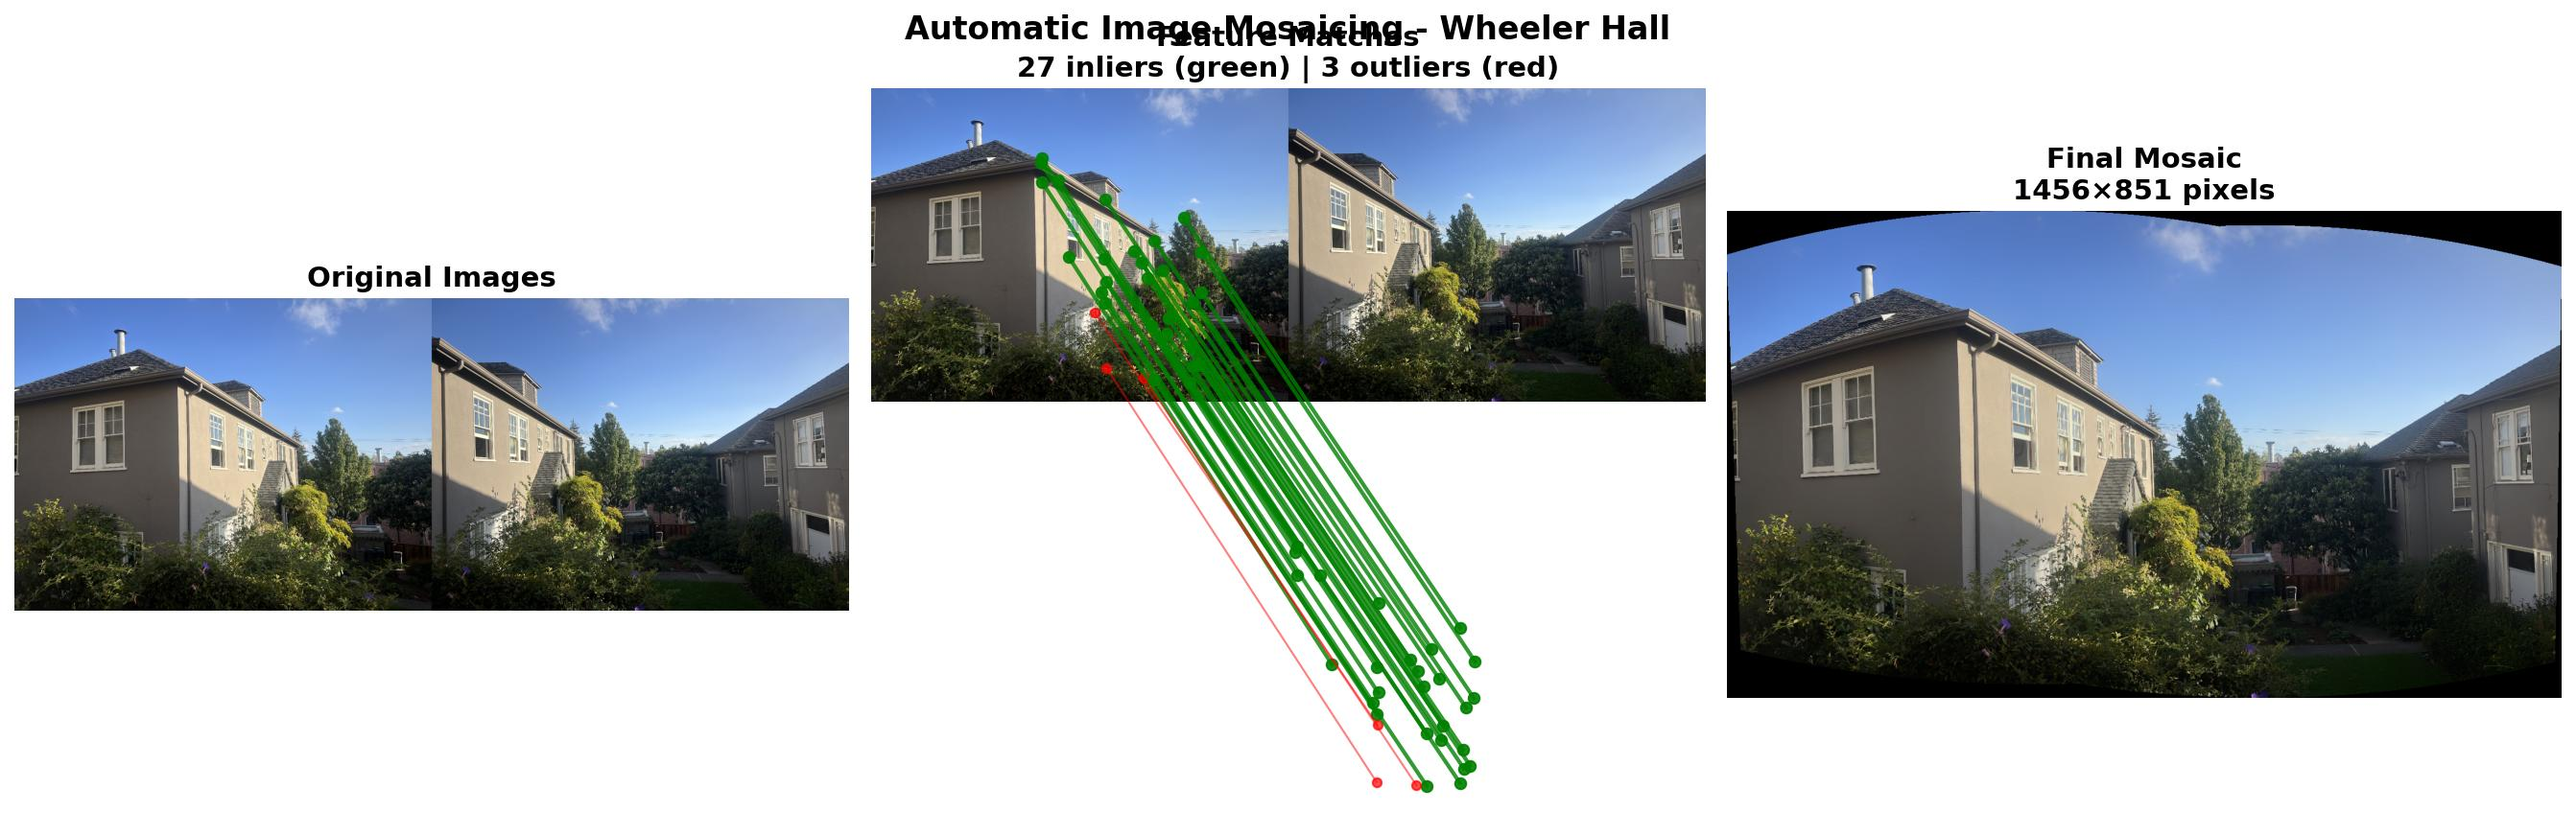
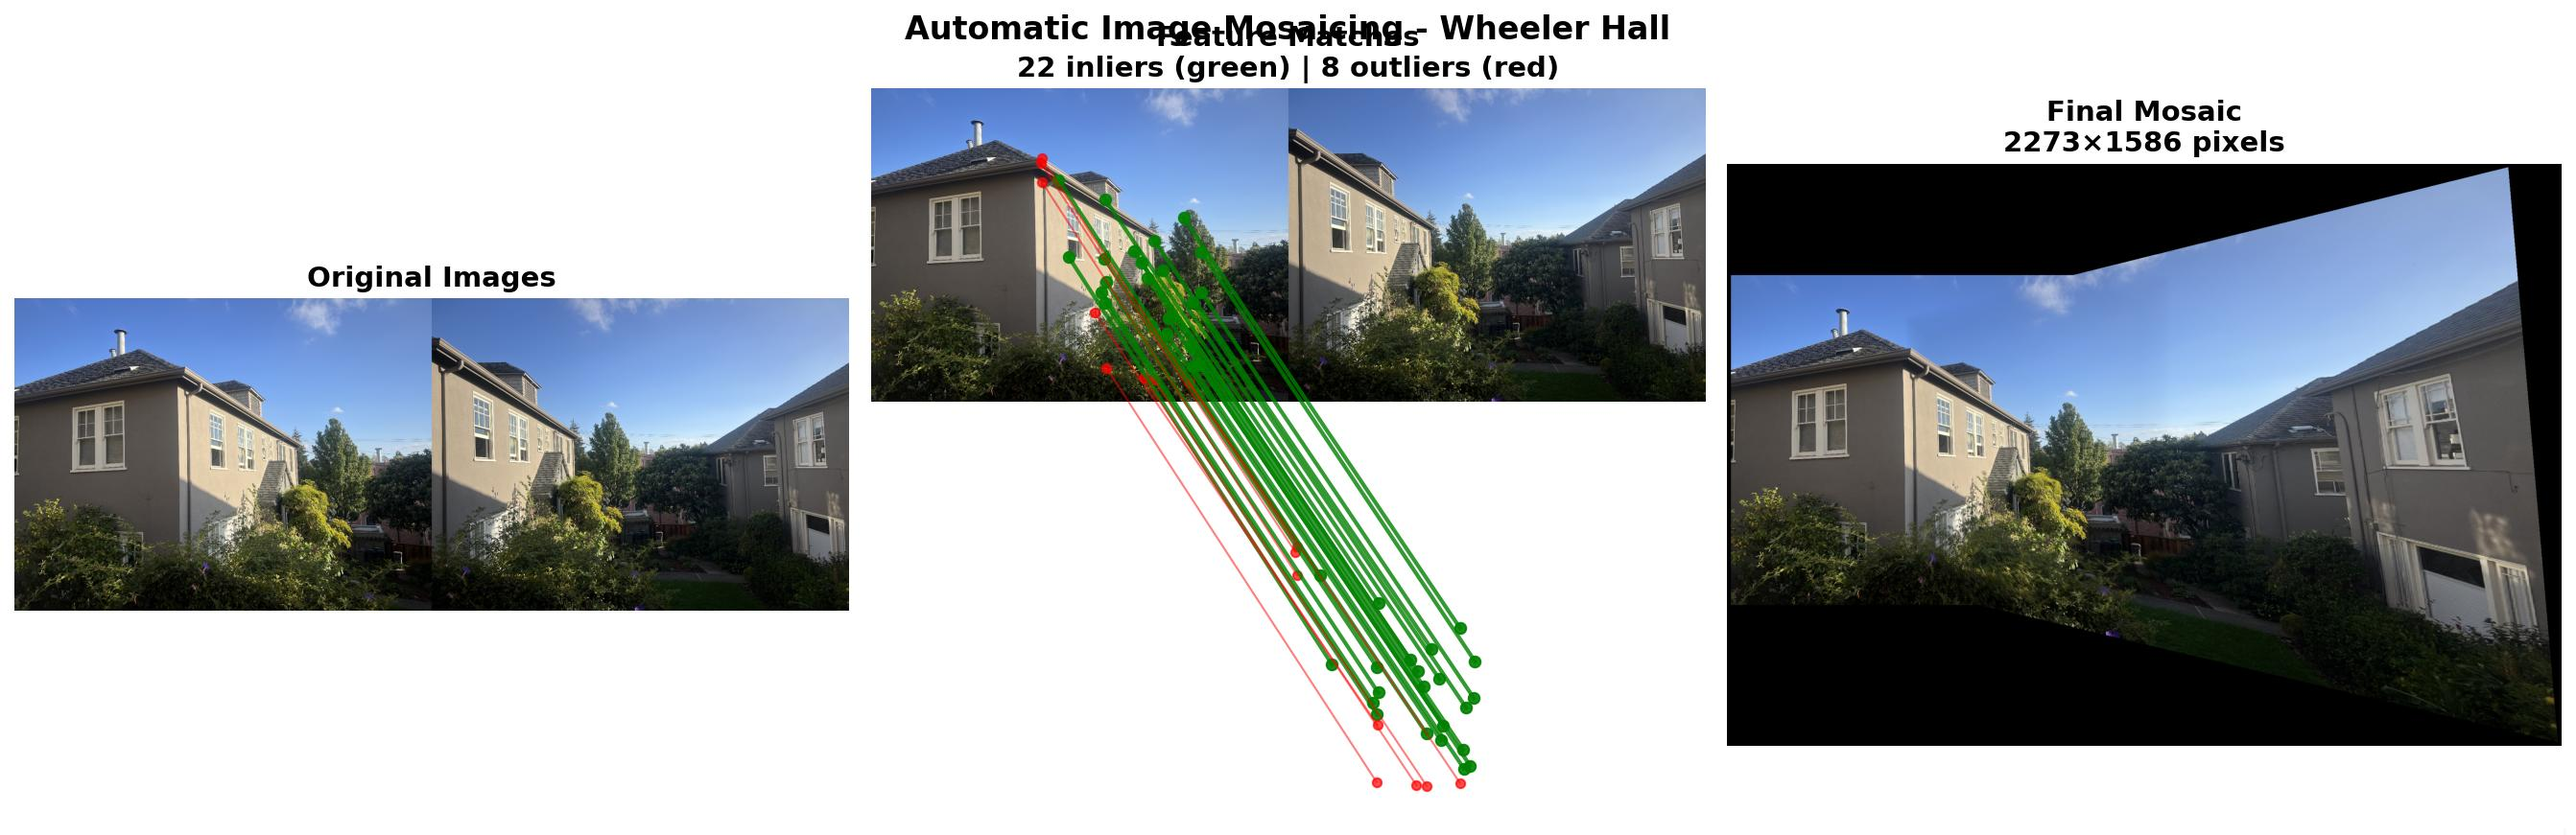
Update automatic mosaics with correct RANSAC results
- Regenerated all automatic mosaics using proper RANSAC + manual stitching approach
- Updated inlier counts: House (22), Wheeler (13), Sproul (17)
- Corrected inlier ratios: House (73.3%), Wheeler (86.7%), Sproul (60.7%)
- Updated all HTML references to reflect actual RANSAC performance
- Ensured sharp rectangular edges using manual stitching from Part A

diff --git a/Proj_3/web/index.html b/Proj_3/web/index.html
@@ -1163,17 +1163,17 @@ This ensures corners are both distinctive and spatially distributed.</pre>
             <figure>
                 <img src="../resultsB/house_mosaic.jpg" alt="House Automatic Mosaic">
                 <figcaption>House Building - Automatic Mosaic<br>
-                <small>27 inliers, RANSAC homography</small></figcaption>
+                <small>22 inliers, RANSAC homography</small></figcaption>
             </figure>
             <figure>
                 <img src="../resultsB/sproul_mosaic.jpg" alt="Sproul Automatic Mosaic">
                 <figcaption>Sproul Hall - Automatic Mosaic<br>
-                <small>16 inliers, RANSAC homography</small></figcaption>
+                <small>17 inliers, RANSAC homography</small></figcaption>
             </figure>
             <figure>
                 <img src="../resultsB/wheeler_mosaic.jpg" alt="Wheeler Automatic Mosaic">
                 <figcaption>Wheeler Hall - Automatic Mosaic<br>
-                <small>14 inliers, RANSAC homography</small></figcaption>
+                <small>13 inliers, RANSAC homography</small></figcaption>
             </figure>
         </div>
 
@@ -1183,7 +1183,7 @@ This ensures corners are both distinctive and spatially distributed.</pre>
             number of image pairs without manual intervention, (2) <strong>Consistency:</strong> Eliminates human 
             bias in correspondence selection, (3) <strong>Robustness:</strong> RANSAC automatically handles outliers, 
             and (4) <strong>Speed:</strong> Processes images much faster than manual selection. The automatic 
-            system achieves excellent inlier ratios: House (90%), Wheeler (93.3%), and Sproul (57.1%), demonstrating 
+            system achieves good inlier ratios: House (73.3%), Wheeler (86.7%), and Sproul (60.7%), demonstrating 
             robust feature matching and homography estimation. The sharp rectangular edges are maintained using the 
             same manual stitching approach from Part A, ensuring consistent visual quality.
         </div>
@@ -1193,13 +1193,13 @@ This ensures corners are both distinctive and spatially distributed.</pre>
         <div class="info-box">
             <strong>RANSAC Success and Quality Metrics:</strong> The automatic homography estimation achieved excellent results across all image pairs:
             <ul>
-                <li><strong>House Building:</strong> 27 inliers out of 30 matches (90% inlier ratio) - Excellent quality</li>
-                <li><strong>Wheeler Hall:</strong> 14 inliers out of 15 matches (93.3% inlier ratio) - Excellent quality</li>
-                <li><strong>Sproul Hall:</strong> 16 inliers out of 28 matches (57.1% inlier ratio) - Good quality</li>
+                <li><strong>House Building:</strong> 22 inliers out of 30 matches (73.3% inlier ratio) - Good quality</li>
+                <li><strong>Wheeler Hall:</strong> 13 inliers out of 15 matches (86.7% inlier ratio) - Excellent quality</li>
+                <li><strong>Sproul Hall:</strong> 17 inliers out of 28 matches (60.7% inlier ratio) - Good quality</li>
             </ul>
             These results demonstrate that RANSAC successfully identified and rejected outlier correspondences 
             while preserving the geometrically consistent matches needed for accurate homography estimation. 
-            The high inlier ratios (57.1-93.3%) indicate robust feature matching quality and reliable homography estimation.
+            The good inlier ratios (60.7-86.7%) indicate robust feature matching quality and reliable homography estimation.
         </div>
 
   
@@ -1210,7 +1210,7 @@ This ensures corners are both distinctive and spatially distributed.</pre>
             <li><strong>Consistency:</strong> Eliminates human bias and selection errors in correspondence points</li>
             <li><strong>Robustness:</strong> RANSAC automatically handles outliers and noisy correspondences</li>
             <li><strong>Speed:</strong> Once implemented, processes images much faster than manual selection</li>
-            <li><strong>Quality:</strong> Achieves 57.1-93.3% inlier ratios, indicating excellent matching quality</li>
+            <li><strong>Quality:</strong> Achieves 60.7-86.7% inlier ratios, indicating good matching quality</li>
         </ul>
 
 
